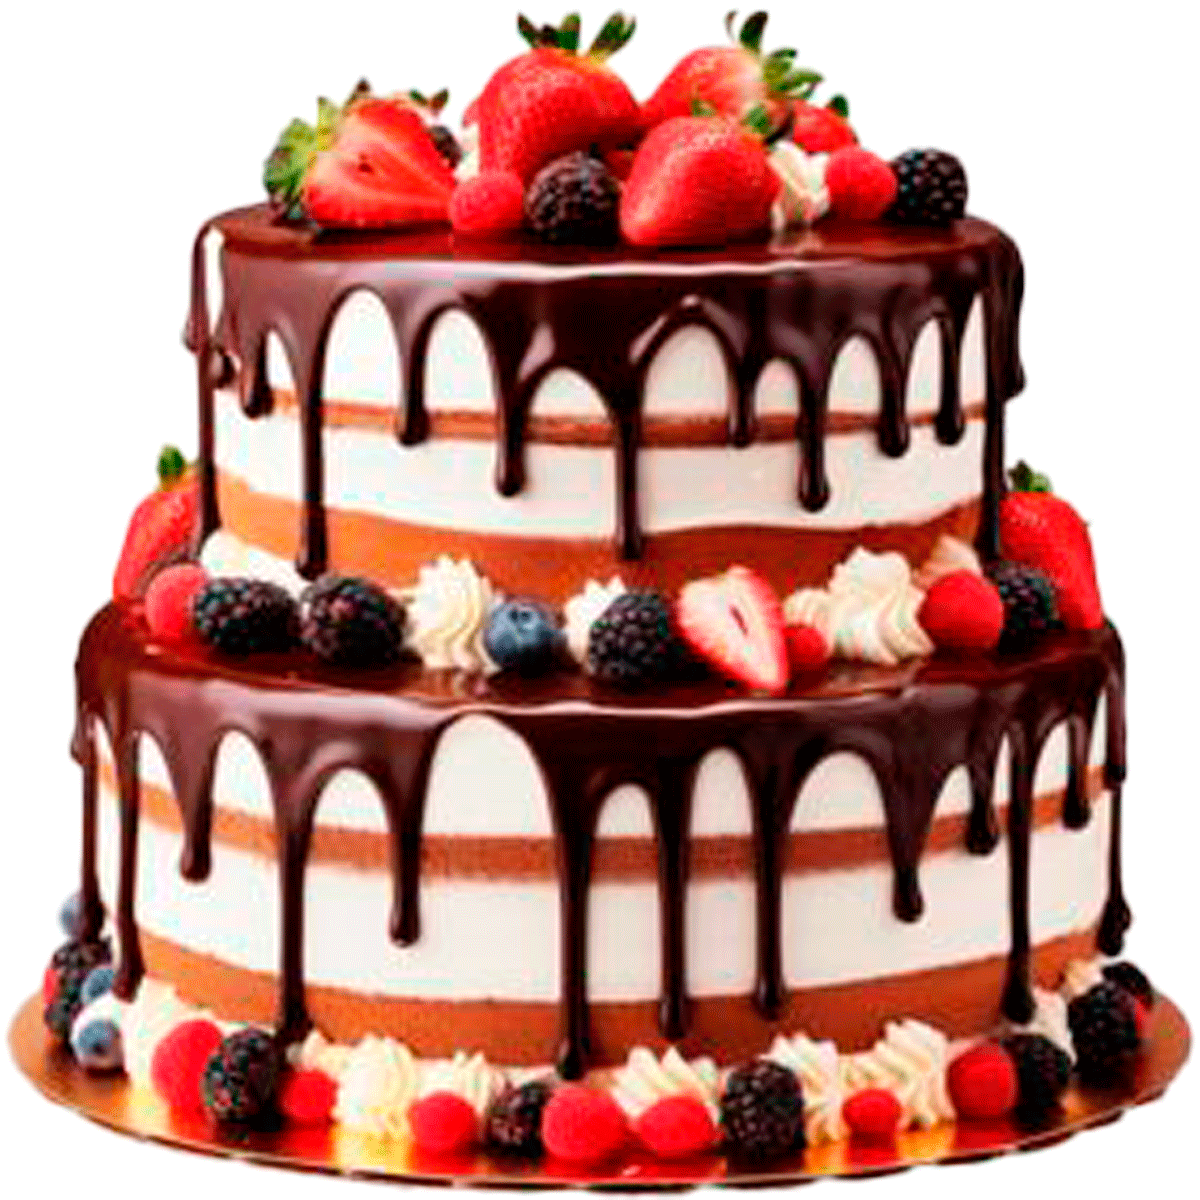
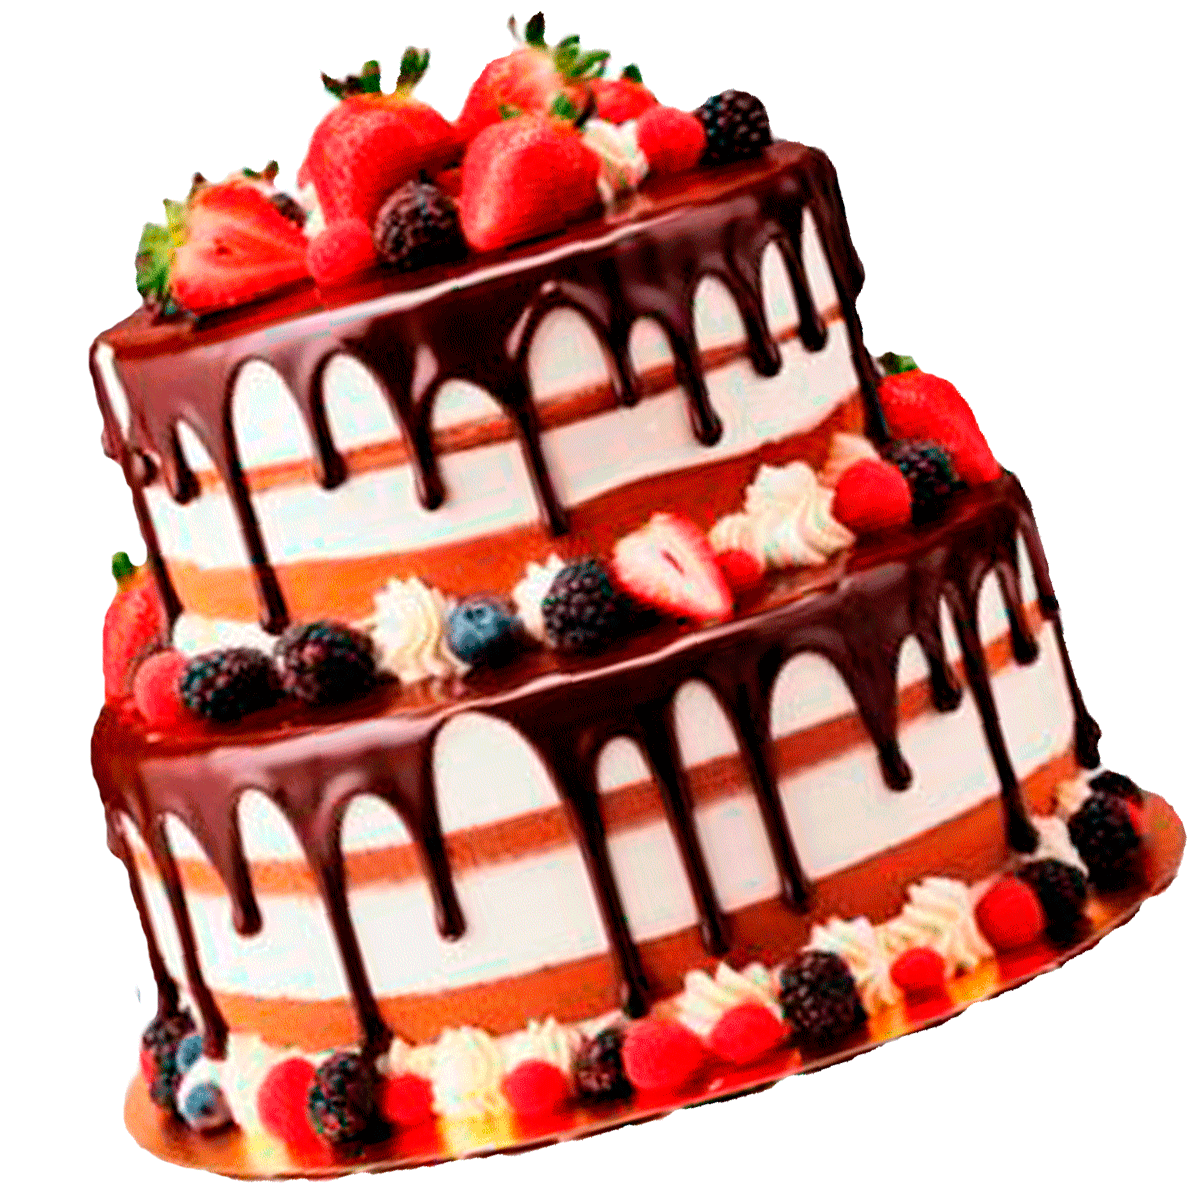
add descriptions

diff --git a/public/css/main.css b/public/css/main.css
@@ -2615,7 +2615,7 @@ form textarea:required:valid {
 
 .intro-bg-02__01 {
   top: auto;
-  bottom: 40px;
+  bottom: 90px;
   right: 0;
   width: 160px;
   height: auto;
@@ -2623,7 +2623,7 @@ form textarea:required:valid {
 @media only screen and (min-width: 768px) {
   .intro-bg-02__01 {
     top: auto;
-    bottom: 50px;
+    bottom: 100px;
     right: 0;
     width: 260px;
     height: auto;
@@ -2632,7 +2632,7 @@ form textarea:required:valid {
 @media only screen and (min-width: 992px) {
   .intro-bg-02__01 {
     top: auto;
-    bottom: 100px;
+    bottom: 150px;
     right: 0;
     width: 340px;
     height: auto;
@@ -2641,7 +2641,7 @@ form textarea:required:valid {
 @media only screen and (min-width: 1200px) {
   .intro-bg-02__01 {
     top: auto;
-    bottom: 200px;
+    bottom: 250px;
     right: 0;
     width: 330px;
     height: auto;
@@ -2650,7 +2650,7 @@ form textarea:required:valid {
 @media only screen and (min-width: 1400px) {
   .intro-bg-02__01 {
     top: auto;
-    bottom: 250px;
+    bottom: 300px;
     right: 0;
     width: 350px;
     height: auto;
@@ -2659,7 +2659,7 @@ form textarea:required:valid {
 @media only screen and (min-width: 1600px) {
   .intro-bg-02__01 {
     top: auto;
-    bottom: 230px;
+    bottom: 280px;
     right: 0;
     width: 530px;
     height: auto;
@@ -4568,7 +4568,7 @@ form textarea:required:valid {
   margin-bottom: 3.9rem;
 }
 .project__block.grid-items {
-  margin-top: 3.8rem;
+  margin-top: 1.5rem;
 }
 .project__block.normal-size {
   margin-top: 6rem;
@@ -4824,6 +4824,14 @@ button#next-logo,
 @media only screen and (max-width: 767px) {
   .hero-photo-container {
     margin-bottom: 2rem;
+    width: 100vw;
+    margin-left: calc(-50vw + 50%);
+  }
+
+  .hero-photo {
+    width: 100%;
+    height: auto;
+    object-fit: cover;
   }
 }
 

diff --git a/components/homes/home-3/Hero.tsx b/components/homes/home-3/Hero.tsx
@@ -46,18 +46,18 @@ export default function Hero() {
                 id="headline"
                 className="headline headline-95-desktop d-flex align-items-start flex-column loading-wrap"
               >
-                {/* Hero Photo */}
+                {/* Hero Video */}
                 <div
                   className="hero-photo-container"
                   data-duration="0.7"
                   data-delay="100"
                 >
-                  <Image
-                    src="/img/hero-photo.png"
-                    alt="Natasha"
-                    width={400}
-                    height={533}
-                    priority
+                  <video
+                    src="/video/cat0.mp4"
+                    autoPlay
+                    loop
+                    muted
+                    playsInline
                     className="hero-photo"
                   />
                 </div>
@@ -66,7 +66,9 @@ export default function Hero() {
                   data-delay="500"
                   className="headline__subtitle hero-animate-in-up space-top animated-type loading__item"
                 >
-                  Hello! I am Darina
+                  Привет! Меня зовут Карина.
+                  <br />
+                  Готовлю для вас:
                   <br />
                   <TypedText />
                 </p>

diff --git a/components/modals/PortfolioPopup.tsx b/components/modals/PortfolioPopup.tsx
@@ -409,9 +409,6 @@ export default function PortfolioPopup() {
                                     <div className="row g-0">
                                       {/* project data single item */}
                                       <div className="col-12 col-md-6 grid-item pdata__item">
-                                        <p className="data__title tagline-chapter small type-basic-160lh">
-                                          Date
-                                        </p>
                                         <p className="data__descr small type-basic-160lh">
                                           {selectedPortfolio?.date || ""}
                                         </p>

diff --git a/app/page.tsx b/app/page.tsx
@@ -6,7 +6,6 @@ import BottomBackground from "@/components/homes/home-3/BottomBackground";
 import Contact from "@/components/homes/home-3/Contact";
 import Hero from "@/components/homes/home-3/Hero";
 import Portfolios from "@/components/homes/home-3/Portfolios";
-import Resume from "@/components/homes/home-3/Resume";
 import Services from "@/components/homes/home-3/Services";
 import { Metadata } from "next";
 export const metadata: Metadata = {
@@ -24,7 +23,6 @@ export default function page() {
         <Portfolios />
         <About />
         <Services />
-        <Resume />
         <Contact />
       </main>
       <BottomBackground />

diff --git a/components/homes/home-3/TypedText.tsx b/components/homes/home-3/TypedText.tsx
@@ -27,9 +27,9 @@ export default function TypedText() {
   return (
     <>
       <span id="typed-strings">
-        <b>UI/UX designer</b>
-        <b>3D Artist</b>
-        <b>Illustrator</b>
+        <b>все виды тортов</b>
+        <b>самые вкусные десерты</b>
+        <b>чизкейк и пирожные</b>
       </span>
       <span id="typed" ref={el} />
     </>

diff --git a/components/headers/Header1.tsx b/components/headers/Header1.tsx
@@ -4,7 +4,6 @@ const defaultMenuItems = [
   { href: "#portfolio", caption: "Portfolio", icon: "ph ph-squares-four" },
   { href: "#about", caption: "About Me", icon: "ph ph-user" },
   { href: "#services", caption: "Services", icon: "ph ph-sticker" },
-  { href: "#resume", caption: "Resume", icon: "ph ph-article" },
   { href: "#contact", caption: "Contact", icon: "ph ph-envelope" },
 ];
 
